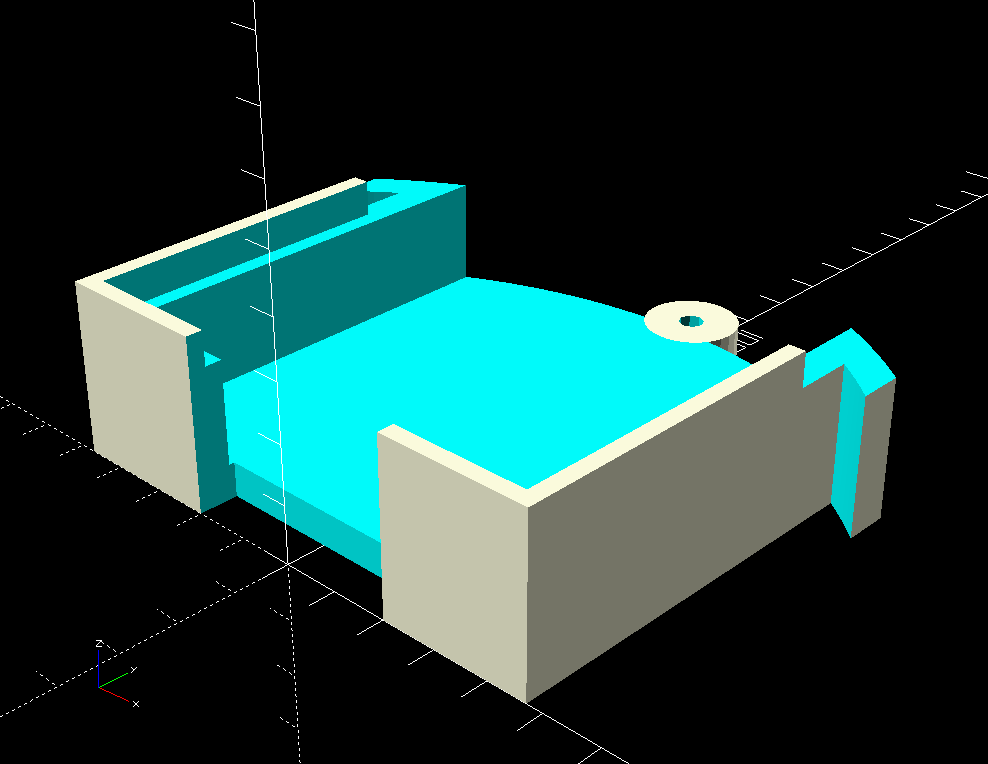
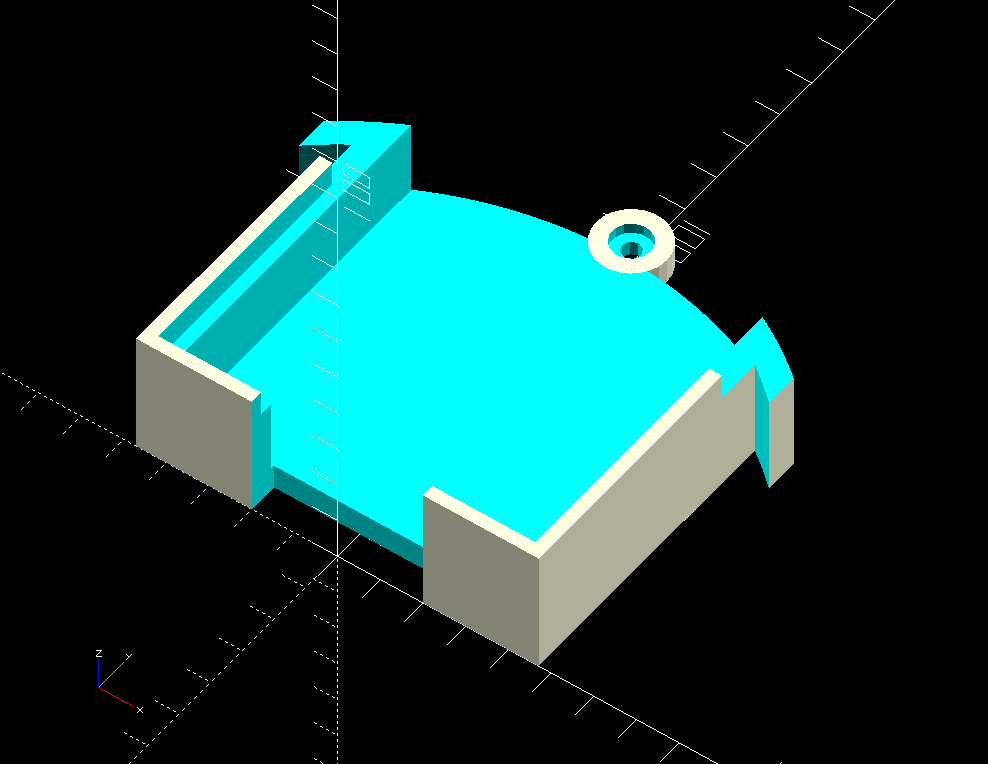
Headphone Holder update
Added a recess for the mounting screw so it shoudn't interfere with a phone sliding in

Changed region(s): [[0.0607, 0.1505, 0.9109, 0.9332], [0.2733, 0.7225, 0.3036, 0.7526]]

diff --git a/headphone/readme.md b/headphone/readme.md
@@ -45,7 +45,7 @@ dimensions to the printable area.
 
 ## Todo
 
-* I probably should provide a recess in the mouting hole for a screw head,
+* (DONE!) I probably should provide a recess in the mouting hole for a screw head,
   hopefully the slop will allow me to put my phone in the cradle while a
   screw is installed
 
